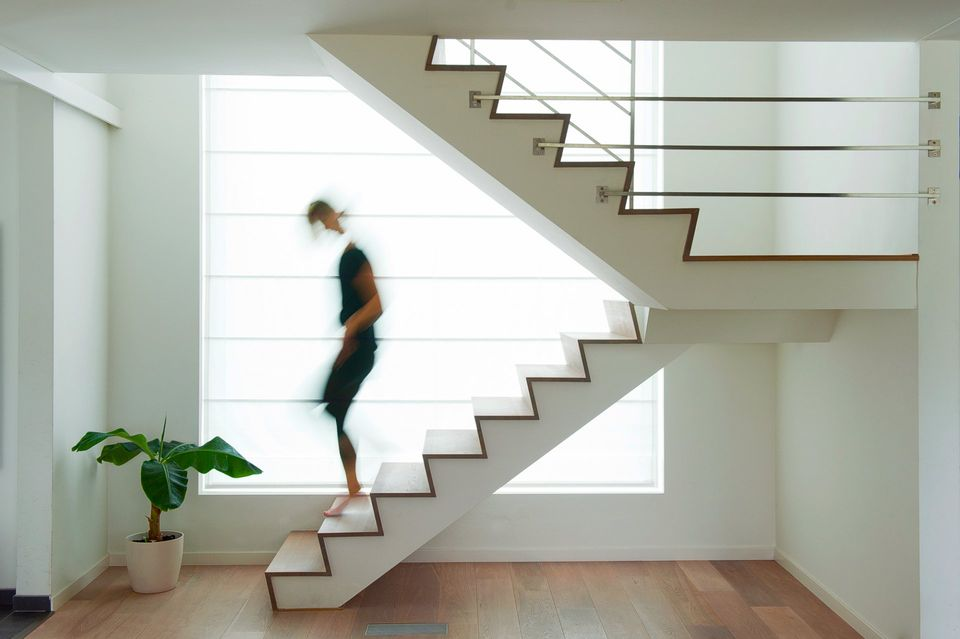
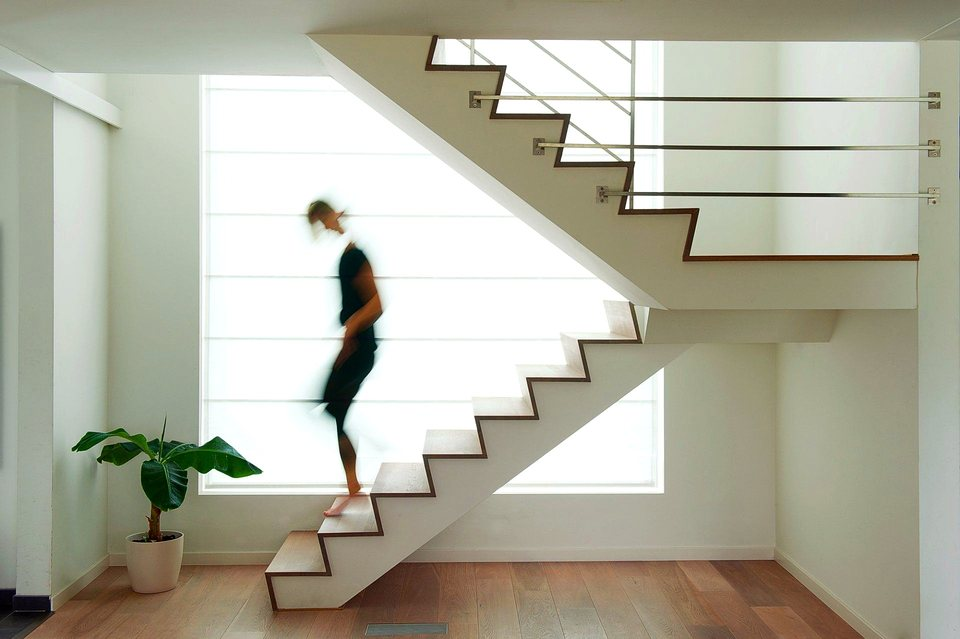
Hero raam: zelfde donkere stijl als latten/reeks, foto opnieuw gegradeerd

diff --git a/styles.css b/styles.css
@@ -204,7 +204,6 @@ h1, h2, h3, p, blockquote, figure { margin: 0; }
 .hero__actions { display: flex; align-items: center; gap: 24px; flex-wrap: wrap; margin-top: 8px; }
 .hero__cta { min-height: 52px; padding: 0 24px; font-weight: 600; background: var(--hero-btn-bg); color: var(--hero-btn-fg); }
 @media (hover: hover) { .hero__cta:hover { background: var(--paper); color: var(--ink); } [data-theme="zw"] .hero__cta:hover { background: var(--brand); } }
-[data-theme="zw"][data-hero="raam"] .hero__cta { background: var(--ink); color: var(--paper); }
 
 /* ---------- 6b. Projecten (realisaties) ---------- */
 .projects { padding: 0 var(--gutter) 160px; display: flex; flex-direction: column; gap: 96px; }
@@ -443,30 +442,23 @@ h1, h2, h3, p, blockquote, figure { margin: 0; }
 	.preview-bar.is-open .theme-switch { display: flex; }
 }
 
-/* ---------- 12b. Herofoto 'raam' (lichte foto, donkere tekst) ---------- */
+/* ---------- 12b. Herofoto 'raam' (zelfde donkere stijl als de andere hero's) ---------- */
 .hero__pic--raam, .logo--normaal { display: none; }
-[data-hero="raam"] .hero__img--latten, [data-hero="raam"] .logo--licht { display: none; }
-[data-hero="raam"] .hero__pic--raam, [data-hero="raam"] .logo--normaal { display: block; }
-[data-hero="raam"] .hero__pic--raam { position: absolute; top: 0; bottom: 0; left: 20%; right: 0; z-index: -2; }
-[data-hero="raam"] .hero__img--raam { object-position: 0% 50%; }
-[data-hero="raam"] .hero { color: var(--ink); background: var(--bg); }
+[data-hero="raam"] .hero__img--latten { display: none; }
+[data-hero="raam"] .hero__pic--raam { display: block; }
+/* de persoon en de trap staan rechts van het midden: tekst links blijft vrij */
+[data-hero="raam"] .hero__img--raam { object-position: 62% 50%; }
+/* lichte foto: iets sterkere laag zodat witte tekst en nav leesbaar blijven */
 [data-hero="raam"] .hero::before {
 	background:
-		linear-gradient(90deg, rgb(var(--bg-rgb)) 0%, rgb(var(--bg-rgb)) 20%, rgb(var(--bg-rgb) / 0.7) 27%, rgb(var(--bg-rgb) / 0) 38%),
-		linear-gradient(180deg, rgb(var(--bg-rgb) / 0.96) 0%, rgb(var(--bg-rgb) / 0.88) 10%, rgb(var(--bg-rgb) / 0.4) 18%, rgb(var(--bg-rgb) / 0) 26%);
+		radial-gradient(120% 90% at 0% 100%, rgb(var(--shade) / 0.55) 0%, rgb(var(--shade) / 0.3) 45%, rgb(var(--shade) / 0) 75%),
+		linear-gradient(90deg, rgb(var(--shade) / 0.42) 0%, rgb(var(--shade) / 0.18) 45%, rgb(var(--shade) / 0) 70%),
+		linear-gradient(180deg, rgb(var(--shade) / 0.5) 0%, rgb(var(--shade) / 0) 22%, rgb(var(--shade) / 0) 45%, rgb(var(--shade) / 0.5) 100%);
 }
-[data-hero="raam"] .hero h1 { font-size: clamp(40px, 4.4vw, 64px); }
-@media (min-width: 961px) { [data-hero="raam"] .hero__content { max-width: 600px; } }
-[data-theme="zw"][data-hero="raam"] .nav__offerte { background: var(--ink); color: var(--paper); }
-[data-hero="raam"] .nav__toggle { color: var(--ink); background: rgb(var(--bg-rgb) / 0.7); }
-[data-hero="raam"][data-theme="zw"] .hero__offerte { background: var(--ink); color: var(--paper); }
 @media (max-width: 960px) {
-	[data-hero="raam"] .hero__pic--raam { left: 0; }
-	[data-hero="raam"] .hero__img--raam { object-position: 25% 50%; }
+	[data-hero="raam"] .hero__img--raam { object-position: 32% 50%; }
 	[data-hero="raam"] .hero::before {
-		background:
-			linear-gradient(0deg, rgb(var(--bg-rgb) / 0.96) 0%, rgb(var(--bg-rgb) / 0.85) 34%, rgb(var(--bg-rgb) / 0) 62%),
-			linear-gradient(180deg, rgb(var(--bg-rgb) / 0.96) 0%, rgb(var(--bg-rgb) / 0.85) 9%, rgb(var(--bg-rgb) / 0) 20%);
+		background: linear-gradient(180deg, rgb(var(--shade) / 0.5) 0%, rgb(var(--shade) / 0.14) 20%, rgb(var(--shade) / 0.5) 42%, rgb(var(--shade) / 0.82) 100%);
 	}
 }
 
